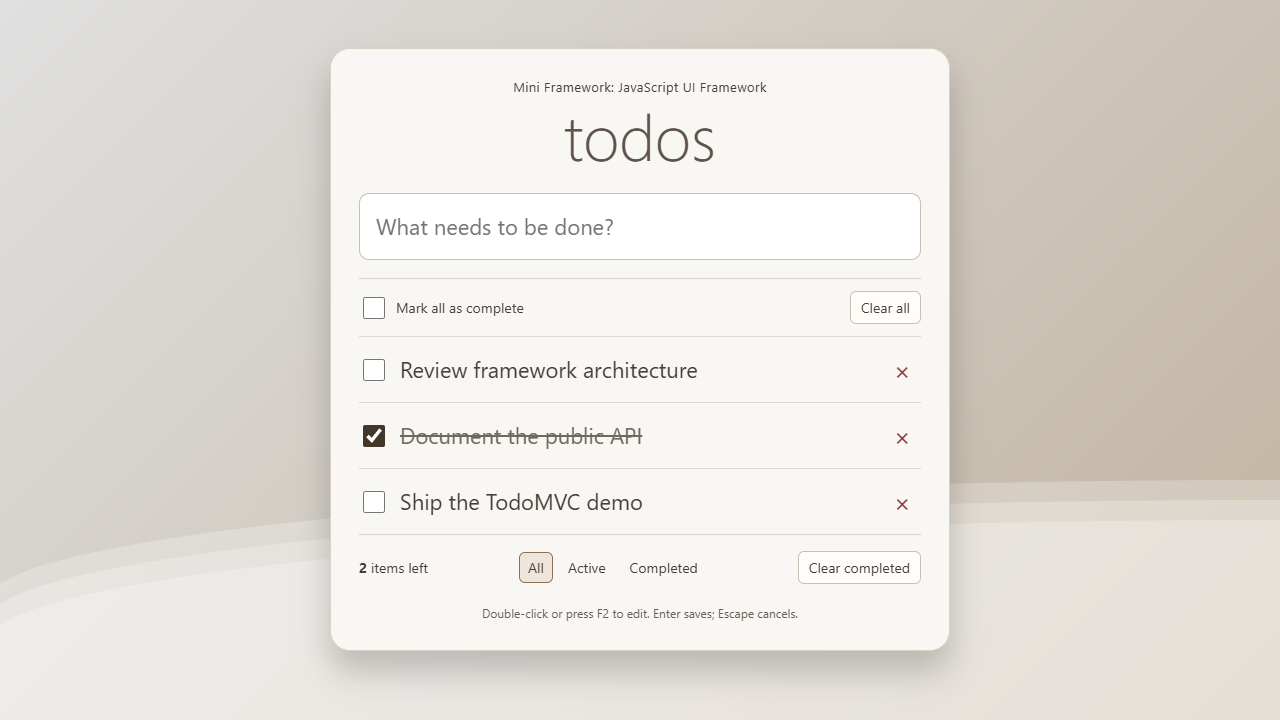
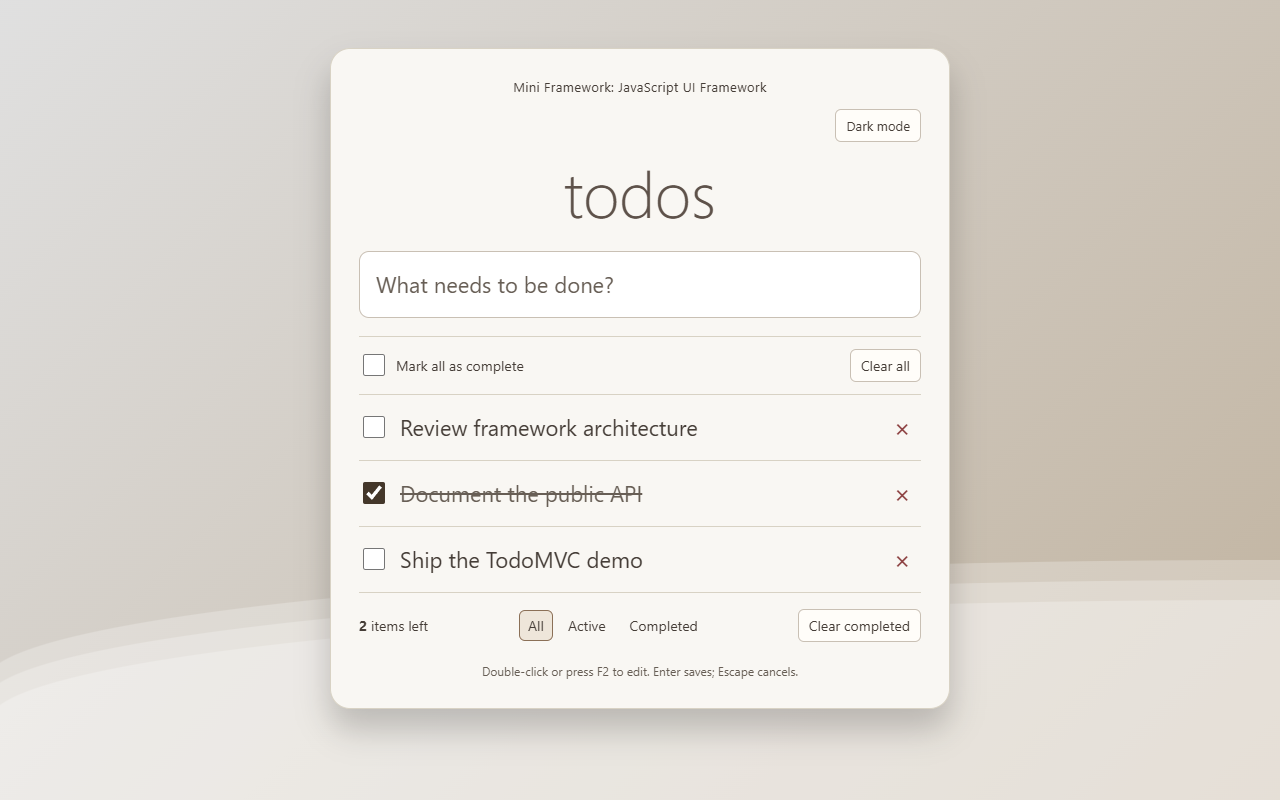
Add a saved dark mode preference to TodoMVC
Use the framework store and event bus for the theme toggle. Start with the system preference, save the chosen theme separately from tasks, and keep the toggle usable when storage is blocked.

diff --git a/todomvc/style.css b/todomvc/style.css
@@ -1,3 +1,51 @@
+:root {
+  color-scheme: light;
+  --text: #453d37;
+  --page-start: #e0e0e0;
+  --page-end: #c0b29e;
+  --panel: #f9f7f3;
+  --border: #c9c0b4;
+  --divider: #d8d2c4;
+  --button: #fffdf9;
+  --hover: #eee6da;
+  --focus: #725941;
+  --heading: #5e524a;
+  --input: #ffffff;
+  --input-text: #2d2d2d;
+  --accent: #67533f;
+  --muted: #675e55;
+  --delete: #8a3d3d;
+  --selected-border: #8b7057;
+  --warning-border: #997532;
+  --warning-background: #fff2d9;
+  --warning-text: #604713;
+  --wave: #ffffff40;
+}
+
+:root[data-theme="dark"] {
+  color-scheme: dark;
+  --text: #ede8e0;
+  --page-start: #11171e;
+  --page-end: #24303b;
+  --panel: #1e2732;
+  --border: #566574;
+  --divider: #3d4956;
+  --button: #263240;
+  --hover: #313e4d;
+  --focus: #e1b58b;
+  --heading: #f2ece4;
+  --input: #151d26;
+  --input-text: #f3eee7;
+  --accent: #dcc0a2;
+  --muted: #b7b0a8;
+  --delete: #eeaaaa;
+  --selected-border: #a99279;
+  --warning-border: #bd9855;
+  --warning-background: #342b1c;
+  --warning-text: #ffe3a6;
+  --wave: #ffffff0a;
+}
+
 * { box-sizing: border-box; }
 
 body {
@@ -5,56 +53,60 @@ body {
   padding: 48px 20px;
   min-height: 100vh;
   font: 16px/1.5 -apple-system, BlinkMacSystemFont, 'Segoe UI', sans-serif;
-  color: #453d37;
-  background: linear-gradient(135deg, #e0e0e0, #c0b29e) fixed;
+  color: var(--text);
+  background: linear-gradient(135deg, var(--page-start), var(--page-end)) fixed;
 }
 
 button, input { font: inherit; }
+input::placeholder { color: var(--muted); opacity: 1; }
 button, a, input[type="checkbox"] { cursor: pointer; }
 button { color: inherit; }
 button, .filters a { border-radius: 6px; }
-button { border: 1px solid #c9c0b4; background: #fffdf9; padding: 5px 10px; }
-button:hover { background: #eee6da; }
-:focus-visible { outline: 3px solid #725941; outline-offset: 3px; }
+button { border: 1px solid var(--border); background: var(--button); padding: 5px 10px; }
+button:hover { background: var(--hover); }
+:focus-visible { outline: 3px solid var(--focus); outline-offset: 3px; }
 
 #app {
   position: relative;
   max-width: 620px;
   margin: auto;
   padding: 28px;
-  background: #f9f7f3;
-  border: 1px solid #d8d2c4;
+  background: var(--panel);
+  border: 1px solid var(--divider);
   border-radius: 20px;
   box-shadow: 0 20px 32px #0003;
 }
+.theme-controls { display: flex; justify-content: flex-end; margin: 12px 0; }
+.theme-toggle { font-size: 13px; padding: 6px 10px; }
+.theme-toggle[aria-pressed="true"] { border-color: var(--selected-border); background: var(--hover); }
 .project-name { margin: 0; text-align: center; font-size: 13px; letter-spacing: .03em; }
-h1 { margin: 0 0 20px; font-size: 64px; line-height: 1.2; font-weight: 300; text-align: center; color: #5e524a; }
+h1 { margin: 0 0 20px; font-size: 64px; line-height: 1.2; font-weight: 300; text-align: center; color: var(--heading); }
 .new-todo, .edit {
   width: 100%;
-  border: 1px solid #c9c0b4;
+  border: 1px solid var(--border);
   border-radius: 10px;
   padding: 16px;
-  color: #2d2d2d;
-  background: white;
+  color: var(--input-text);
+  background: var(--input);
   font-size: 22px;
 }
-.main { margin-top: 18px; border-top: 1px solid #d8d2c4; }
+.main { margin-top: 18px; border-top: 1px solid var(--divider); }
 .bulk-actions { display: flex; align-items: center; gap: 8px; padding: 12px 0; font-size: 14px; }
 .clear-all { margin-left: auto; }
-.toggle-all, .toggle { width: 22px; height: 22px; accent-color: #67533f; flex-shrink: 0; }
+.toggle-all, .toggle { width: 22px; height: 22px; accent-color: var(--accent); flex-shrink: 0; }
 .todo-list { list-style: none; margin: 0; padding: 0; }
-.todo-list li { border-top: 1px solid #ded7cd; padding: 8px 0; }
+.todo-list li { border-top: 1px solid var(--divider); padding: 8px 0; }
 .view { display: flex; align-items: center; gap: 12px; }
 .view label { flex: 1; min-width: 0; overflow-wrap: anywhere; padding: 8px 0; font-size: 22px; cursor: text; }
-.completed label { color: #71675e; text-decoration: line-through; }
-.destroy { font-size: 26px; line-height: 1; border: none; background: transparent; color: #8a3d3d; }
+.completed label { color: var(--muted); text-decoration: line-through; }
+.destroy { font-size: 26px; line-height: 1; border: none; background: transparent; color: var(--delete); }
 .editing .view { display: none; }
-.footer { display: flex; flex-wrap: wrap; align-items: center; justify-content: space-between; gap: 12px; border-top: 1px solid #d8d2c4; padding-top: 16px; font-size: 14px; }
+.footer { display: flex; flex-wrap: wrap; align-items: center; justify-content: space-between; gap: 12px; border-top: 1px solid var(--divider); padding-top: 16px; font-size: 14px; }
 .filters { display: flex; flex-wrap: wrap; gap: 6px; list-style: none; margin: 0; padding: 0; }
 .filters a { display: block; color: inherit; text-decoration: none; padding: 4px 8px; border: 1px solid transparent; }
-.filters a:hover, .filters a.selected { border-color: #8b7057; background: #eee6da; }
-.info { margin: 20px 0 0; font-size: 12px; text-align: center; color: #675e55; }
-.storage-warning { padding: 12px; border: 1px solid #997532; border-radius: 8px; background: #fff2d9; color: #604713; }
+.filters a:hover, .filters a.selected { border-color: var(--selected-border); background: var(--hover); }
+.info { margin: 20px 0 0; font-size: 12px; text-align: center; color: var(--muted); }
+.storage-warning { padding: 12px; border: 1px solid var(--warning-border); border-radius: 8px; background: var(--warning-background); color: var(--warning-text); }
 .error-content { text-align: center; }
 .error-content .filters { justify-content: center; margin: 20px 0; }
 
@@ -65,7 +117,7 @@ h1 { margin: 0 0 20px; font-size: 64px; line-height: 1.2; font-weight: 300; text
   z-index: -1;
   width: 200%;
   height: 15em;
-  background: #ffffff40;
+  background: var(--wave);
   border-radius: 1000% 1000% 0 0;
   animation: wave 18s linear infinite;
   pointer-events: none;

diff --git a/todomvc/app.js b/todomvc/app.js
@@ -3,6 +3,7 @@ import { createStore } from '../framework/store.js';
 import { mount, createRouter, on } from '../framework/core.js';
 
 const STORAGE_KEY = 'todos-mini-framework';
+const THEME_KEY = 'theme-mini-framework';
 const routes = { '/': 'all', '/active': 'active', '/completed': 'completed' };
 
 function loadTodos() {
@@ -29,7 +30,40 @@ function loadTodos() {
   }
 }
 
-const store = createStore({ ...loadTodos(), newTodo: '', currentFilter: null });
+function loadTheme() {
+  try {
+    const saved = localStorage.getItem(THEME_KEY);
+    if (saved === 'light' || saved === 'dark') return saved;
+  } catch {
+    // Storage can be blocked; the system preference still provides a default.
+  }
+  return window.matchMedia('(prefers-color-scheme: dark)').matches ? 'dark' : 'light';
+}
+
+const store = createStore({
+  ...loadTodos(), newTodo: '', currentFilter: null, theme: loadTheme(), themeWarning: ''
+});
+document.documentElement.dataset.theme = store.getState().theme;
+store.subscribe(state => {
+  if (document.documentElement.dataset.theme !== state.theme) {
+    document.documentElement.dataset.theme = state.theme;
+  }
+});
+
+function themeToggle(state) {
+  return h('div', { class: 'theme-controls', key: 'theme-controls' },
+    h('button', {
+      type: 'button', class: 'theme-toggle', onclick: 'toggleTheme',
+      'aria-pressed': String(state.theme === 'dark'),
+      title: state.theme === 'dark' ? 'Switch to light mode' : 'Switch to dark mode'
+    }, 'Dark mode')
+  );
+}
+
+function storageNotice(state) {
+  const message = [state.warning, state.themeWarning].filter(Boolean).join(' ');
+  return message ? h('p', { class: 'storage-warning', role: 'status', key: 'warning' }, message) : null;
+}
 
 function filteredTodos(state) {
   if (state.currentFilter === 'active') return state.todos.filter(todo => !todo.completed);
@@ -80,6 +114,8 @@ function todoView(todo) {
 function view(state) {
   if (state.currentFilter === null) {
     return h('section', { class: 'error-content', key: 'not-found' },
+      themeToggle(state),
+      storageNotice(state),
       h('h1', {}, '404'),
       h('h2', {}, 'Page not found'),
       h('p', {}, 'Choose a task filter to return to your list.'),
@@ -92,6 +128,7 @@ function view(state) {
   return h('section', { class: 'todoapp', key: 'todos' },
     h('header', { class: 'header', key: 'header' },
       h('p', { class: 'project-name' }, 'Mini Framework: JavaScript UI Framework'),
+      themeToggle(state),
       h('h1', {}, 'todos'),
       h('input', {
         id: 'new-todo', class: 'new-todo', type: 'text', placeholder: 'What needs to be done?',
@@ -99,7 +136,7 @@ function view(state) {
         oninput: 'inputTodo', onkeydown: 'addTodo'
       })
     ),
-    state.warning ? h('p', { class: 'storage-warning', role: 'status', key: 'warning' }, state.warning) : null,
+    storageNotice(state),
     hasTodos ? h('section', { class: 'main', key: 'main' },
       h('div', { class: 'bulk-actions' },
         h('input', {
@@ -147,6 +184,17 @@ const idFrom = event => event.currentTarget.dataset.id;
 function updateTodo(id, changes) {
   store.setState(state => ({ todos: state.todos.map(todo => todo.id === id ? { ...todo, ...changes } : todo) }));
 }
+
+on('toggleTheme', () => {
+  const theme = store.getState().theme === 'dark' ? 'light' : 'dark';
+  let themeWarning = '';
+  try {
+    localStorage.setItem(THEME_KEY, theme);
+  } catch {
+    themeWarning = 'The theme preference could not be saved. It will apply in this tab.';
+  }
+  store.setState({ theme, themeWarning });
+});
 
 on('inputTodo', event => store.setState({ newTodo: event.currentTarget.value }));
 on('addTodo', event => {

diff --git a/README.md b/README.md
@@ -20,6 +20,7 @@ A lightweight JavaScript UI framework built from scratch, with a TodoMVC demo th
 - Filter by All, Active, or Completed.
 - Track remaining tasks, toggle all tasks, and clear completed tasks.
 - Save tasks locally across page reloads.
+- Switch between light and dark mode, with a saved preference.
 - Edit with the keyboard: F2 to start, Enter to save, and Escape to cancel.
 - Responsive layout, accessible controls, and reduced-motion support.
 
